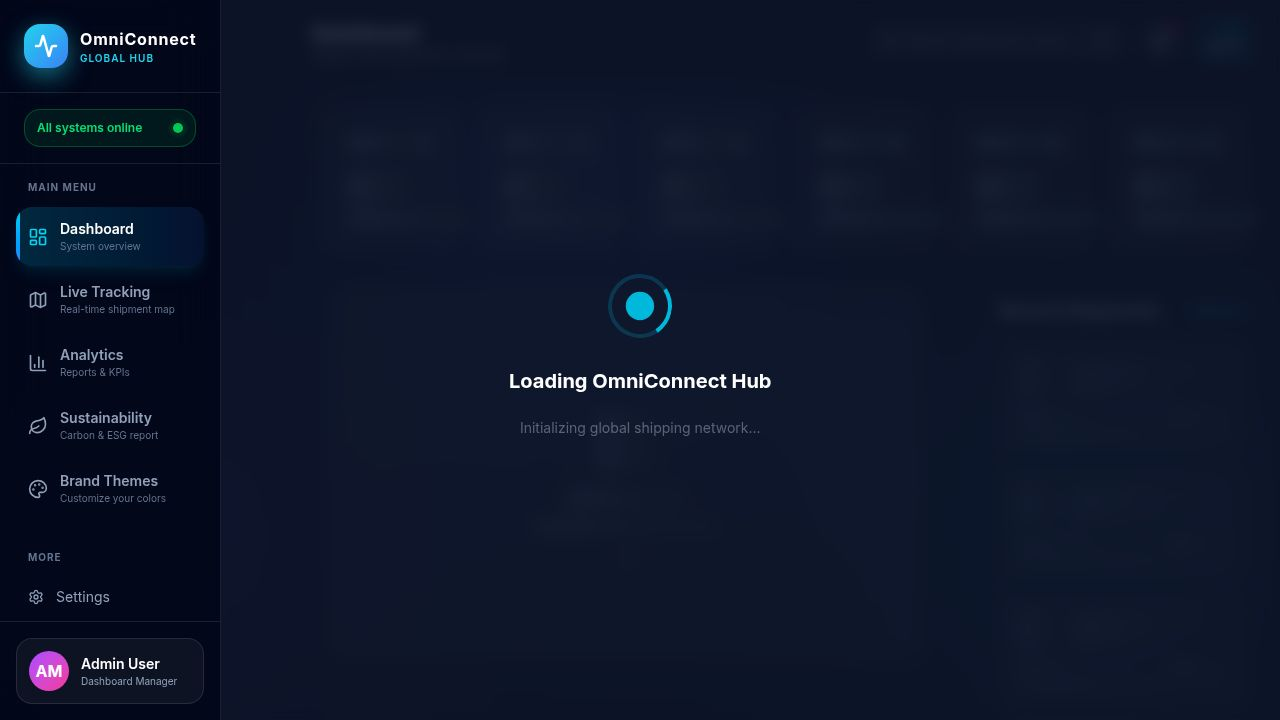
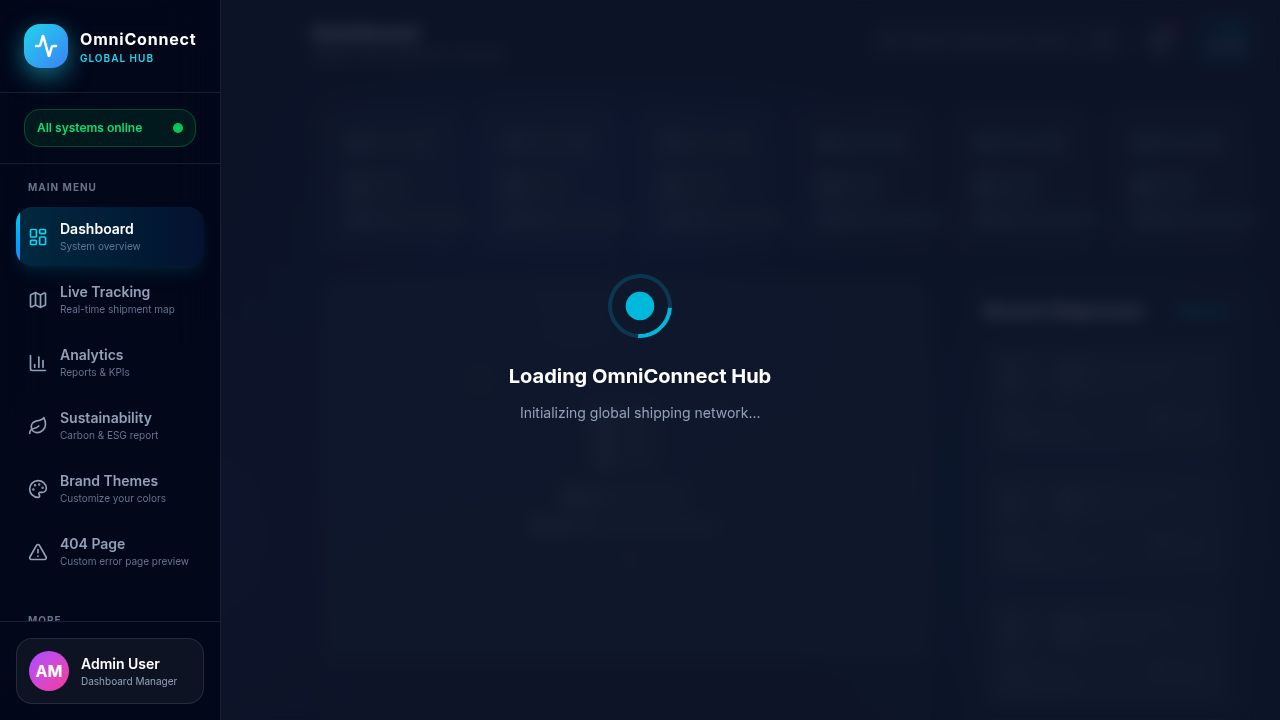
Improve real-time data display and add a 404 page link
Add a route for the 404 page, include it in the sidebar navigation, and adjust the real-time data hook for smoother, more realistic updates.

Replit-Commit-Author: Agent
Replit-Commit-Session-Id: ec10d809-ad0c-451e-a00f-95db33bbc00c
Replit-Commit-Checkpoint-Type: full_checkpoint
Replit-Commit-Event-Id: 7eee65c8-040c-4f27-8526-3db7e62dabe3
Replit-Commit-Screenshot-Url: https://storage.googleapis.com/screenshot-production-us-central1/d1e6d719-5ecb-4aea-bc06-1b31c283cf07/ec10d809-ad0c-451e-a00f-95db33bbc00c/5A52lVi
Replit-Helium-Checkpoint-Created: true

diff --git a/artifacts/omniconnect-hub/src/hooks/use-real-time-data.ts b/artifacts/omniconnect-hub/src/hooks/use-real-time-data.ts
@@ -36,47 +36,68 @@ const getInitialData = (): RealTimeData => ({
   totalPorts: 342,
   fuelConsumption: 12450,
   co2Emission: 8720,
-  systemEfficiency: 96.8
+  systemEfficiency: 96.8,
 });
+
+// تذبذب صغير حول قيمة محورية (لتجنب الانحراف الطويل المدى)
+const driftToward = (current: number, anchor: number, drift: number, jitter: number) => {
+  const pull = (anchor - current) * 0.04; // قوة سحب نحو القيمة المحورية
+  const random = (Math.random() * 2 - 1) * jitter;
+  return current + pull + drift + random;
+};
 
 export const useRealTimeData = () => {
   const [data, setData] = useState<RealTimeData>(getInitialData());
   const [isAnalyzing, setIsAnalyzing] = useState(false);
   const [lastAnalysis, setLastAnalysis] = useState<AnalysisResult | null>(null);
   const pausedRef = useRef(false);
+  const tickRef = useRef(0);
 
   useEffect(() => {
-    // مساعد لتغيّرات صغيرة وناعمة (احتمال كبير لعدم التغيير)
-    const tinyDelta = (max: number) => {
-      // 60% من الوقت: لا تغيير، 40%: تغيير صغير ±max
-      if (Math.random() < 0.6) return 0;
-      return Math.round((Math.random() * 2 - 1) * max);
-    };
-
     const interval = setInterval(() => {
       if (pausedRef.current) return;
-      setData(prevData => ({
-        // الشحنات الإجمالية: غالباً تزداد ببطء
-        totalShipments:
-          prevData.totalShipments + (Math.random() < 0.7 ? 1 : 0),
-        // الشحنات النشطة: تذبذب صغير ±1
-        activeShipments: prevData.activeShipments + tinyDelta(1),
-        // الشحنات المتأخرة: تتغير بشكل نادر فقط
-        delayedShipments: Math.max(
-          0,
-          prevData.delayedShipments + (Math.random() < 0.1 ? (Math.random() < 0.5 ? -1 : 1) : 0),
-        ),
-        totalPorts: prevData.totalPorts,
-        // الوقود: تغيّرات بسيطة على رقم بآلاف اللترات (غير محسوسة بصرياً)
-        fuelConsumption: prevData.fuelConsumption + tinyDelta(3),
-        // الانبعاثات: تغيّرات بسيطة جداً
-        co2Emission: prevData.co2Emission + tinyDelta(2),
-        // الكفاءة: تغيّر دقيق جداً (±0.05%)
-        systemEfficiency: Math.min(
+      tickRef.current += 1;
+
+      setData(prev => {
+        // الشحنات الإجمالية: تنمو دائماً (+1 إلى +4) — كأنها شحنات جديدة تسجَّل
+        const totalShipments = prev.totalShipments + 1 + Math.floor(Math.random() * 4);
+
+        // الشحنات النشطة: تتذبذب ±3 حول 3250
+        const activeShipments = Math.round(
+          driftToward(prev.activeShipments, 3250, 0, 3),
+        );
+
+        // الشحنات المتأخرة: تتغير ببطء ±1 كل عدة دورات
+        let delayedShipments = prev.delayedShipments;
+        if (tickRef.current % 3 === 0) {
+          delayedShipments = Math.max(
+            5,
+            Math.min(28, delayedShipments + (Math.random() < 0.5 ? -1 : 1)),
+          );
+        }
+
+        // الوقود: يزداد بشكل مستمر (+8 إلى +25 لتر/ثانيتين)
+        const fuelConsumption = prev.fuelConsumption + 8 + Math.floor(Math.random() * 18);
+
+        // الانبعاثات: تزداد كذلك (+5 إلى +18 كغم/ثانيتين)
+        const co2Emission = prev.co2Emission + 5 + Math.floor(Math.random() * 14);
+
+        // الكفاءة: تتذبذب ±0.3 حول 96.5%
+        const systemEfficiency = Math.min(
           99.9,
-          Math.max(92, prevData.systemEfficiency + (Math.random() * 0.1 - 0.05)),
-        ),
-      }));
+          Math.max(92, driftToward(prev.systemEfficiency, 96.5, 0, 0.3)),
+        );
+
+        return {
+          totalShipments,
+          activeShipments,
+          delayedShipments,
+          totalPorts: prev.totalPorts,
+          fuelConsumption,
+          co2Emission,
+          systemEfficiency: +systemEfficiency.toFixed(2),
+        };
+      });
     }, 2000);
 
     return () => clearInterval(interval);

diff --git a/artifacts/omniconnect-hub/src/components/layout/Sidebar.tsx b/artifacts/omniconnect-hub/src/components/layout/Sidebar.tsx
@@ -10,6 +10,7 @@ import {
   Activity,
   Leaf,
   Palette,
+  AlertTriangle,
 } from "lucide-react";
 import { useTheme } from "@/contexts/ThemeContext";
 
@@ -48,6 +49,12 @@ const navigation = [
     href: "/themes",
     icon: Palette,
     description: "Customize your colors",
+  },
+  {
+    name: "404 Page",
+    href: "/404",
+    icon: AlertTriangle,
+    description: "Custom error page preview",
   },
 ];
 

diff --git a/artifacts/omniconnect-hub/src/App.tsx b/artifacts/omniconnect-hub/src/App.tsx
@@ -56,6 +56,11 @@ function Router() {
             <Themes />
           </PageWrapper>
         </Route>
+        <Route path="/404">
+          <PageWrapper>
+            <NotFound />
+          </PageWrapper>
+        </Route>
         {/* المسار الافتراضي = صفحة 404 داخل نفس الـ Layout */}
         <Route>
           <PageWrapper>

diff --git a/artifacts/omniconnect-hub/src/components/StatCard.tsx b/artifacts/omniconnect-hub/src/components/StatCard.tsx
@@ -38,7 +38,7 @@ export function StatCard({
     const endValue = value;
     if (startValue === endValue) return undefined;
 
-    const duration = 1600; // 1.6 ثانية لانتقال ناعم
+    const duration = 900; // 0.9 ثانية لانتقال ناعم وواضح
     const startTime = performance.now();
     let raf = 0;
 